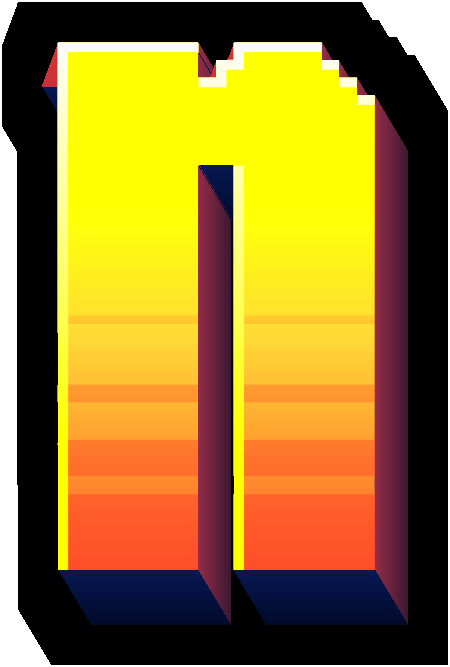
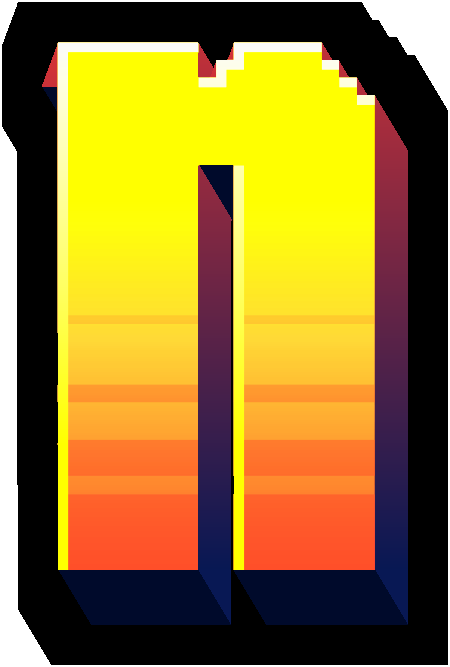
Tiny Rogues: straight sides and outline, walls shaded as drawn
Walls shade maroon to navy down the letter (extrude wall_gradient), floors
flat navy. Stepped corners on the swept side are extruded square
(square_corners), so side and outline run straight into a square corner,
with the face's steps casting their facets inside it. Floors need a 5px run
and the face's one-pixel notches are closed (close_face): stray edge pixels
had swept into hairlines across the walls.

Claude-Session: https://claude.ai/code/session_01LaEujtb3z1MqfzPFRg1ETE

diff --git a/tools/logo_letters.py b/tools/logo_letters.py
@@ -172,6 +172,10 @@ so Godot never imports the source), is JSON:
                   face's bottom edges apart from its side walls, and
                   "outline": {"width", "colour", "square"} rings face and
                   side together, square-cornered with "square" (Tiny Rogues);
+                  "wall_gradient": {"top", "bottom"} shades the walls down
+                  the letter; "square_corners": px extrudes a stepped corner
+                  as square; "fill_face_holes": px fills specks in the face;
+                  "close_face": n closes n-pixel notches along its edge;
                   "outline_max": n keeps only dark pixels past the face (not
                   a glow), "side": {"dy", "dx"} adds the dark 3D side the face
                   sweeps over, "close_dark": n brings in dark counters;
@@ -1016,7 +1020,46 @@ def cut(cfg_path: Path, preview: Path | None = None) -> list[Path]:
                 # sweeping the face along the logo's depth, so a side the next
                 # letter hid is whole again; in the side's own colour.
                 face_m = f.copy()
-                side = face_m.copy()
+                if ex_cfg.get("fill_face_holes"):
+                    # specks the fill missed inside a face (a colour band's
+                    # edge row) are face: swept, each one drew a hairline
+                    hl = nd.binary_fill_holes(face_m) & ~face_m
+                    lab_h, nh = nd.label(hl)
+                    if nh:
+                        sz = nd.sum(hl, lab_h, range(1, nh + 1))
+                        face_m |= np.isin(lab_h, 1 + np.flatnonzero(sz <= ex_cfg["fill_face_holes"]))
+                if ex_cfg.get("close_face"):
+                    # one-pixel notches along a face's edge (a blended edge
+                    # pixel the fill turned down) closed: each was a floor
+                    # edge, swept into a hairline across the wall
+                    face_m = face_m | nd.binary_closing(face_m, np.ones((3, 3)),
+                                                         iterations=ex_cfg["close_face"], border_value=0)
+                sweep_m = face_m
+                sq = ex_cfg.get("square_corners")
+                if sq:
+                    # A stepped corner on the side the face is swept toward is
+                    # extruded as if square (Tiny Rogues): the side's outer
+                    # edge, and the outline round it, run straight into a square
+                    # corner, the face's steps showing as facets inside it. A
+                    # pixel is filled when the face lies within `sq` of it
+                    # behind it both ways (left and up, for a sweep right and
+                    # down) and nowhere within `sq` ahead of it either way, so a
+                    # counter or a notch between two strokes is left alone.
+                    L = int(sq)
+                    sx_ = 1 if ex_cfg["dx"] >= 0 else -1
+                    sy_ = 1 if ex_cfg["dy"] >= 0 else -1
+                    def within(m, axis, sign):
+                        # face within L pixels in that direction (not counting p)
+                        acc = np.zeros_like(m)
+                        for k in range(1, L + 1):
+                            acc |= nd.shift(m, (sign * k, 0) if axis == 0 else (0, sign * k), order=0, cval=False)
+                        return acc
+                    behind_x = within(face_m, 1, sx_)    # face to the left (sweep right)
+                    behind_y = within(face_m, 0, sy_)    # face above (sweep down)
+                    ahead_x = within(face_m, 1, -sx_)
+                    ahead_y = within(face_m, 0, -sy_)
+                    sweep_m = face_m | (behind_x & behind_y & ~ahead_x & ~ahead_y)
+                side = sweep_m.copy()
                 steps = max(abs(ex_cfg["dx"]), abs(ex_cfg["dy"]))
                 # "colour_far": the side shades from "colour" next to the face
                 # to this at its far edge (Vampire Survivors' maroon going dark)
@@ -1040,18 +1083,65 @@ def cut(cfg_path: Path, preview: Path | None = None) -> list[Path]:
                     sy_ = int(np.sign(ex_cfg["dy"]))
                     # the edges the face sweeps out of: where the next pixel
                     # the way it moves is not face
-                    edge_b = face_m & ~nd.shift(face_m, (-sy_, 0), order=0, cval=False) if sy_ else np.zeros_like(face_m)
+                    edge_b = sweep_m & ~nd.shift(sweep_m, (-sy_, 0), order=0, cval=False) if sy_ else np.zeros_like(sweep_m)
+                    # a floor is a run along the bottom, not a pixel: a one-
+                    # pixel bump on a side edge swept into a hairline
+                    edge_b = nd.binary_opening(edge_b, structure=np.ones((1, 5)))
+                floor_all = np.zeros((H, W), bool)
+                reached = sweep_m.copy()
                 for k in range(1, steps + 1):
                     # a shift that falls off the edge, never wraps round to the other side
                     off = (round(ex_cfg["dy"] * k / steps), round(ex_cfg["dx"] * k / steps))
-                    step = nd.shift(face_m, off, order=0, cval=False)
+                    step = nd.shift(sweep_m, off, order=0, cval=False)
                     new = step & ~side
                     side_rgb[new] = near_c + (far_c - near_c) * (k / steps)
                     if down:
                         floor = new & nd.shift(edge_b, off, order=0, cval=False)
                         side_rgb[floor] = d_near + (d_far - d_near) * (k / steps)
+                        floor_all |= floor
                     side_a[new] = near_a + (far_a - near_a) * (k / steps)
                     side |= step
+                    reached |= step
+                # the squared corners themselves are side, never face
+                side |= sweep_m
+                if sq and down:
+                    # ...but inside them the face's own steps still cast their
+                    # facets: what sweeping the stepped face alone gives there
+                    # (a lighter wall per step, as the logo draws them) wins
+                    edge_bf = face_m & ~nd.shift(face_m, (-sy_, 0), order=0, cval=False)
+                    edge_bf = nd.binary_opening(edge_bf, structure=np.ones((1, 5)))
+                    seen_f = face_m.copy()
+                    for k in range(1, steps + 1):
+                        off = (round(ex_cfg["dy"] * k / steps), round(ex_cfg["dx"] * k / steps))
+                        step = nd.shift(face_m, off, order=0, cval=False)
+                        new = step & ~seen_f & side
+                        fl = new & nd.shift(edge_bf, off, order=0, cval=False)
+                        floor_all[new] = False
+                        floor_all[fl] = True
+                        side_rgb[fl] = d_near + (d_far - d_near) * (k / steps)
+                        seen_f |= step
+                    # what the stepped sweep never reaches inside a squared
+                    # corner is floor (the corner's own bottom), as drawn
+                    corner = sweep_m & ~face_m & ~seen_f
+                    floor_all[corner] = True
+                    side_rgb[corner] = d_far
+                    reached |= corner
+                wg = ex_cfg.get("wall_gradient")
+                if wg:
+                    # walls shaded top to bottom down the letter, not by depth
+                    # (Tiny Rogues: maroon at the face's top edge, navy at its
+                    # foot); floors keep "colour_down"
+                    fy_ = np.nonzero(face_m.any(1))[0]
+                    t_ = np.clip((np.arange(H) - fy_.min()) / max(fy_.max() - fy_.min(), 1), 0, 1)
+                    grad = np.array(wg["top"], float)[None, :] + (np.array(wg["bottom"], float) - np.array(wg["top"], float))[None, :] * t_[:, None]
+                    walls = side & ~face_m & ~floor_all if down else side & ~face_m
+                    side_rgb[walls] = grad[np.nonzero(walls)[0]]
+                # squared-corner pixels the sweep never reached take the
+                # nearest side colour
+                gap = side & ~face_m & ~reached
+                if gap.any() and (reached & ~face_m).any():
+                    _, (gy, gx) = nd.distance_transform_edt(~(reached & ~face_m), return_indices=True)
+                    side_rgb[gap] = side_rgb[gy[gap], gx[gap]]
                 rgb[:] = 0
                 al[:] = 0
                 ol = ex_cfg.get("outline")

diff --git a/docs/content-authoring.md b/docs/content-authoring.md
@@ -144,6 +144,16 @@ That outline is SQUARE-cornered (`"square": true`, a chessboard distance): the
 owner wanted the original's pointy corners and stepped ridges, and a round
 outline smoothed every corner off. Square, the face's steps stay steps in the
 outline and only a diagonal side gets a diagonal edge, as the logo draws it.
+And the sides are drawn the logo's way, measured off it: walls shade top to
+bottom down the letter, maroon at the face's top edge to navy at its foot
+(`wall_gradient`), floors one flat navy; a stepped corner on the side the face
+is swept toward is extruded as if square (`square_corners`: filled where the
+face lies within 80px behind it both ways and nowhere ahead), so the side and
+the outline run straight into a square corner, with the face's steps still
+casting their own facets inside it (a second sweep of the stepped face); and a
+floor counts only where it runs 5px or more along the bottom, plus the face's
+one-pixel edge notches closed (`close_face`): a stray edge pixel was swept into
+a hairline across a wall.
 The sword, staff and bow touch the letters' sides, so they are told apart by
 colour (`rgb_ranges`, each colour only in its own box: the browns with red
 under 215 are never a face, which is always red 255); the bow's string and limb
